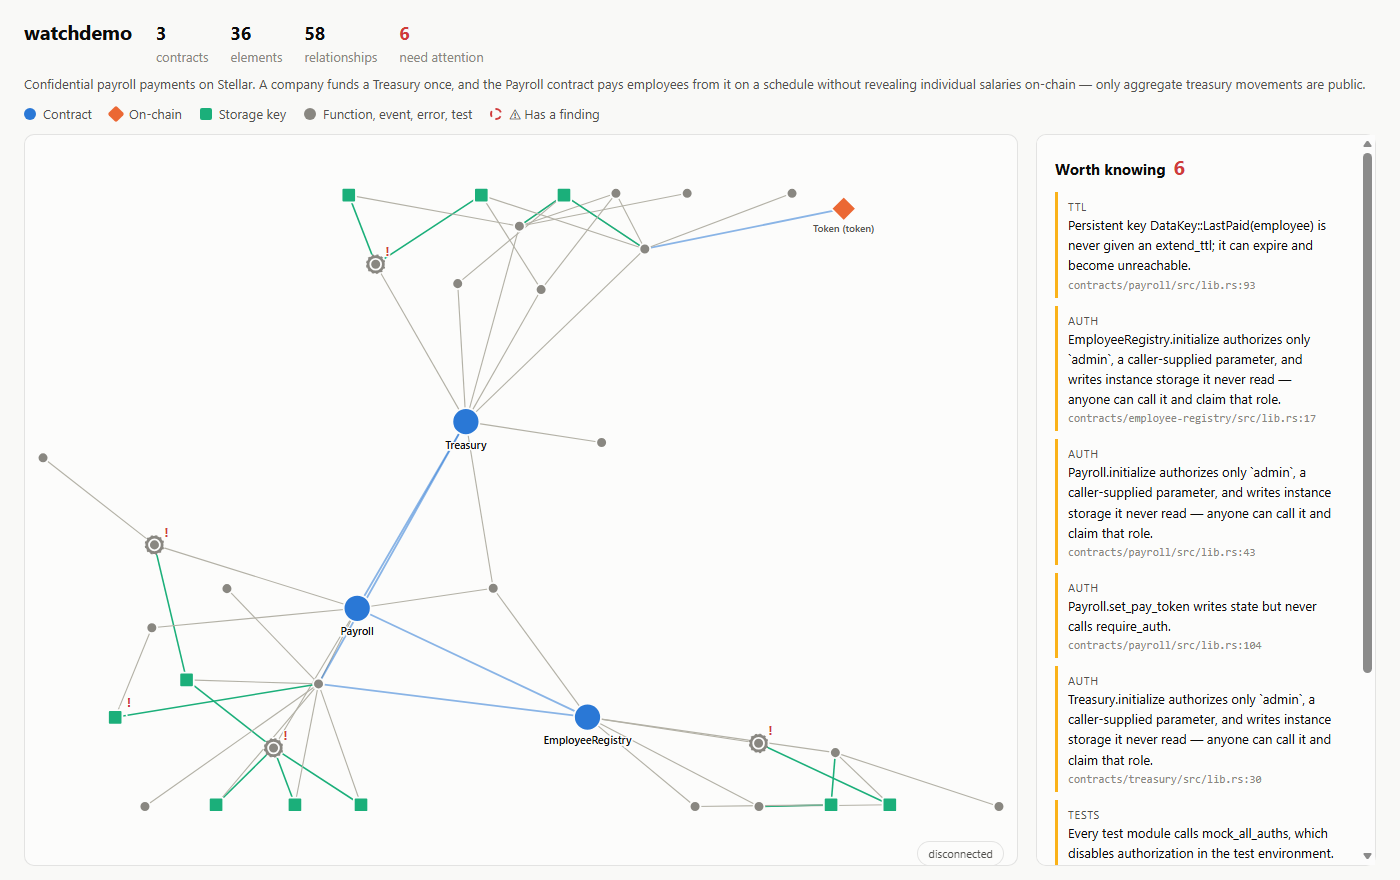
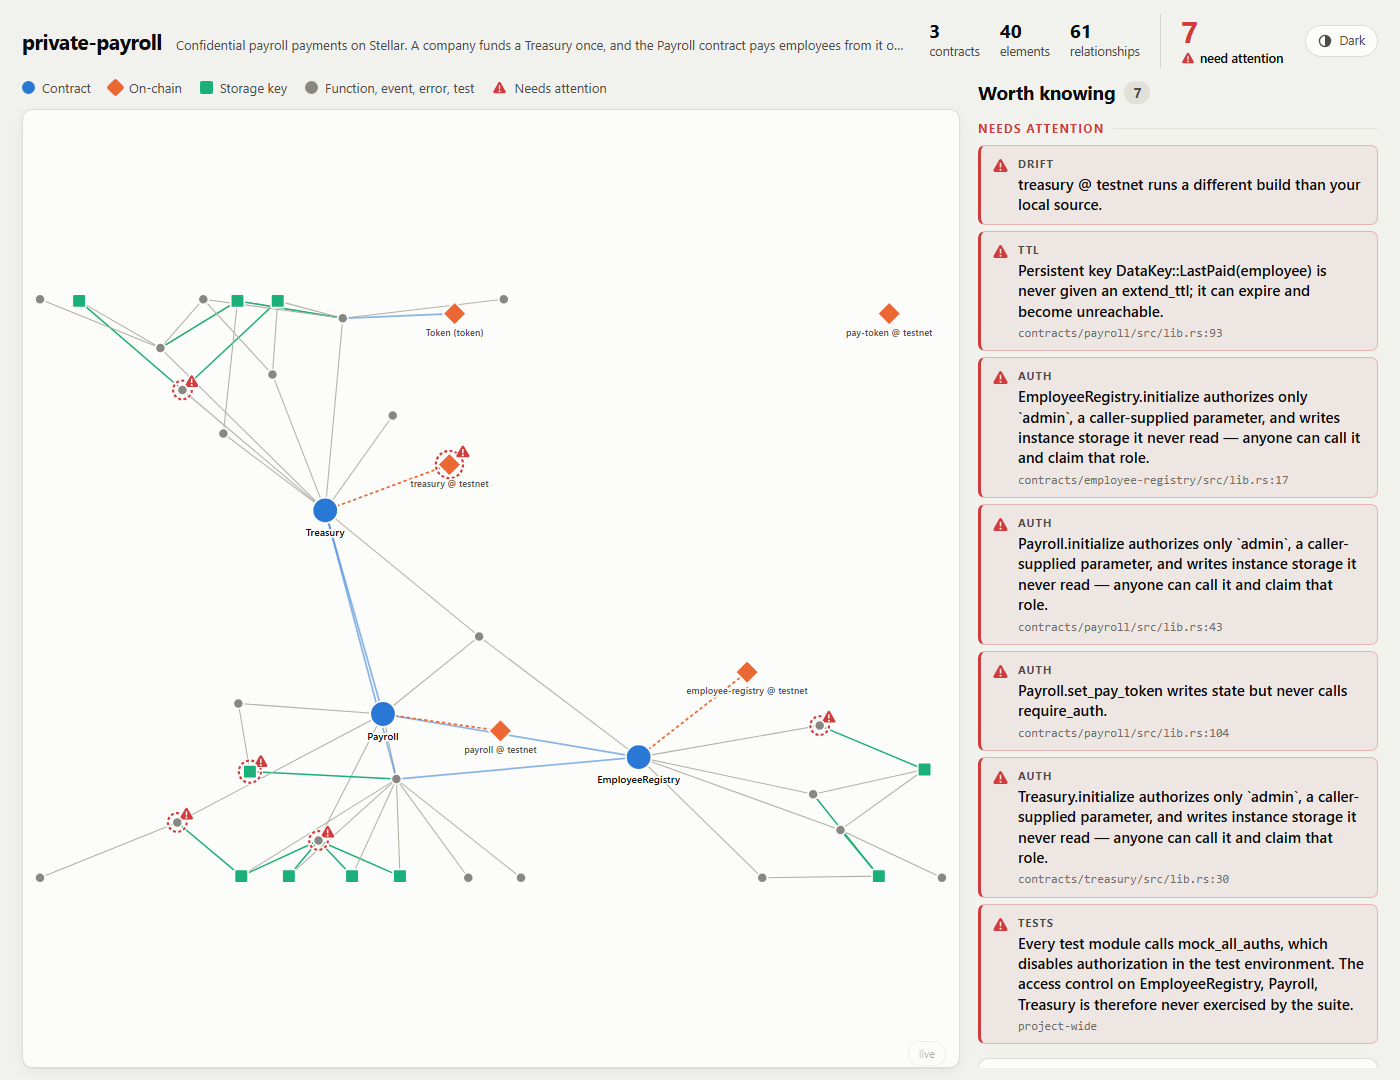
Show the window that ships, not the one that used to
All four screenshots predate the redesign, and their captions predate the
offline fix — the counts in them were produced by a scan that had deleted its
own deployment nodes, so the drift finding was missing from every one.

The --watch pair is a real reproduction rather than two renders: one Chrome
tab, the require_auth fix written to lib.rs, the watcher rescanning offline,
and the page reloading itself over SSE. Because the tab was never
renavigated, the after shot carries the page's own "was 7" badge and one more
relationship than the before shot — the read of DataKey::Admin the fix added.
That frame is the argument for the whole feature, so the caption names it.

The prose around the pair said six findings and five; it now says seven and
six, which is what the images show.

diff --git a/README.md b/README.md
@@ -185,7 +185,7 @@ node scripts/mcp-call.mjs describe_node '{"id":"contract:Payroll"}'
 
 ## See it
 
-![The live window: three contracts and their storage as a graph, with all six findings named beside it — the TTL warning on DataKey::LastPaid, four authorization findings, and one project-wide test finding](docs/media/ui-live.png)
+![The live window: three contracts and their storage as a graph, with all seven findings named beside it — the build drift on treasury @ testnet, the TTL warning on DataKey::LastPaid, four authorization findings, and one project-wide test finding](docs/media/ui-live.png)
 
 ```bash
 stellar memory ui
@@ -214,9 +214,9 @@ The demo ships `set_pay_token` with a real defect and a `FIXME` admitting it:
 the function rewrites which token salaries are paid in, and never checks who is
 asking. `stellar memory ui --watch` is running; nothing else is.
 
-**Before** — six findings, one of them that function:
+**Before** — seven findings, one of them that function:
 
-![The window before the edit: Worth knowing 6, listing the missing require_auth on Payroll.set_pay_token](docs/media/watch-before.png)
+![The window before the edit: Worth knowing 7, listing the missing require_auth on Payroll.set_pay_token](docs/media/watch-before.png)
 
 Add the check the FIXME asks for — read the admin out of instance storage and
 require its authorization — and **save**. No command is run:
@@ -226,9 +226,11 @@ let admin: Address = env.storage().instance().get(&DataKey::Admin).unwrap();
 admin.require_auth();
 ```
 
-**After** — five:
+**After** — six, and the window says so itself: the counter carries a `was 7`
+beside it, and the relationship count goes up by one, because the fix added a
+read of `DataKey::Admin` that was not there before.
 
-![The window after saving: Worth knowing 5, the set_pay_token finding gone](docs/media/watch-after.png)
+![The window after saving: Worth knowing 6, the header counting 6 need attention where it was 7, and the set_pay_token finding gone](docs/media/watch-after.png)
 
 The finding did not merely disappear. In the page's own data the function went
 from
@@ -497,7 +499,7 @@ what those two produce.
 
 The window is for working; the file is for the record.
 
-![The same graph written as one self-contained HTML file, with the project-wide finding beside it](docs/media/graph-file.png)
+![The same graph written as one self-contained HTML file, with all seven findings listed beside it and a footer naming the scan it came from — no network, no server](docs/media/graph-file.png)
 
 ```bash
 stellar memory graph --format html
